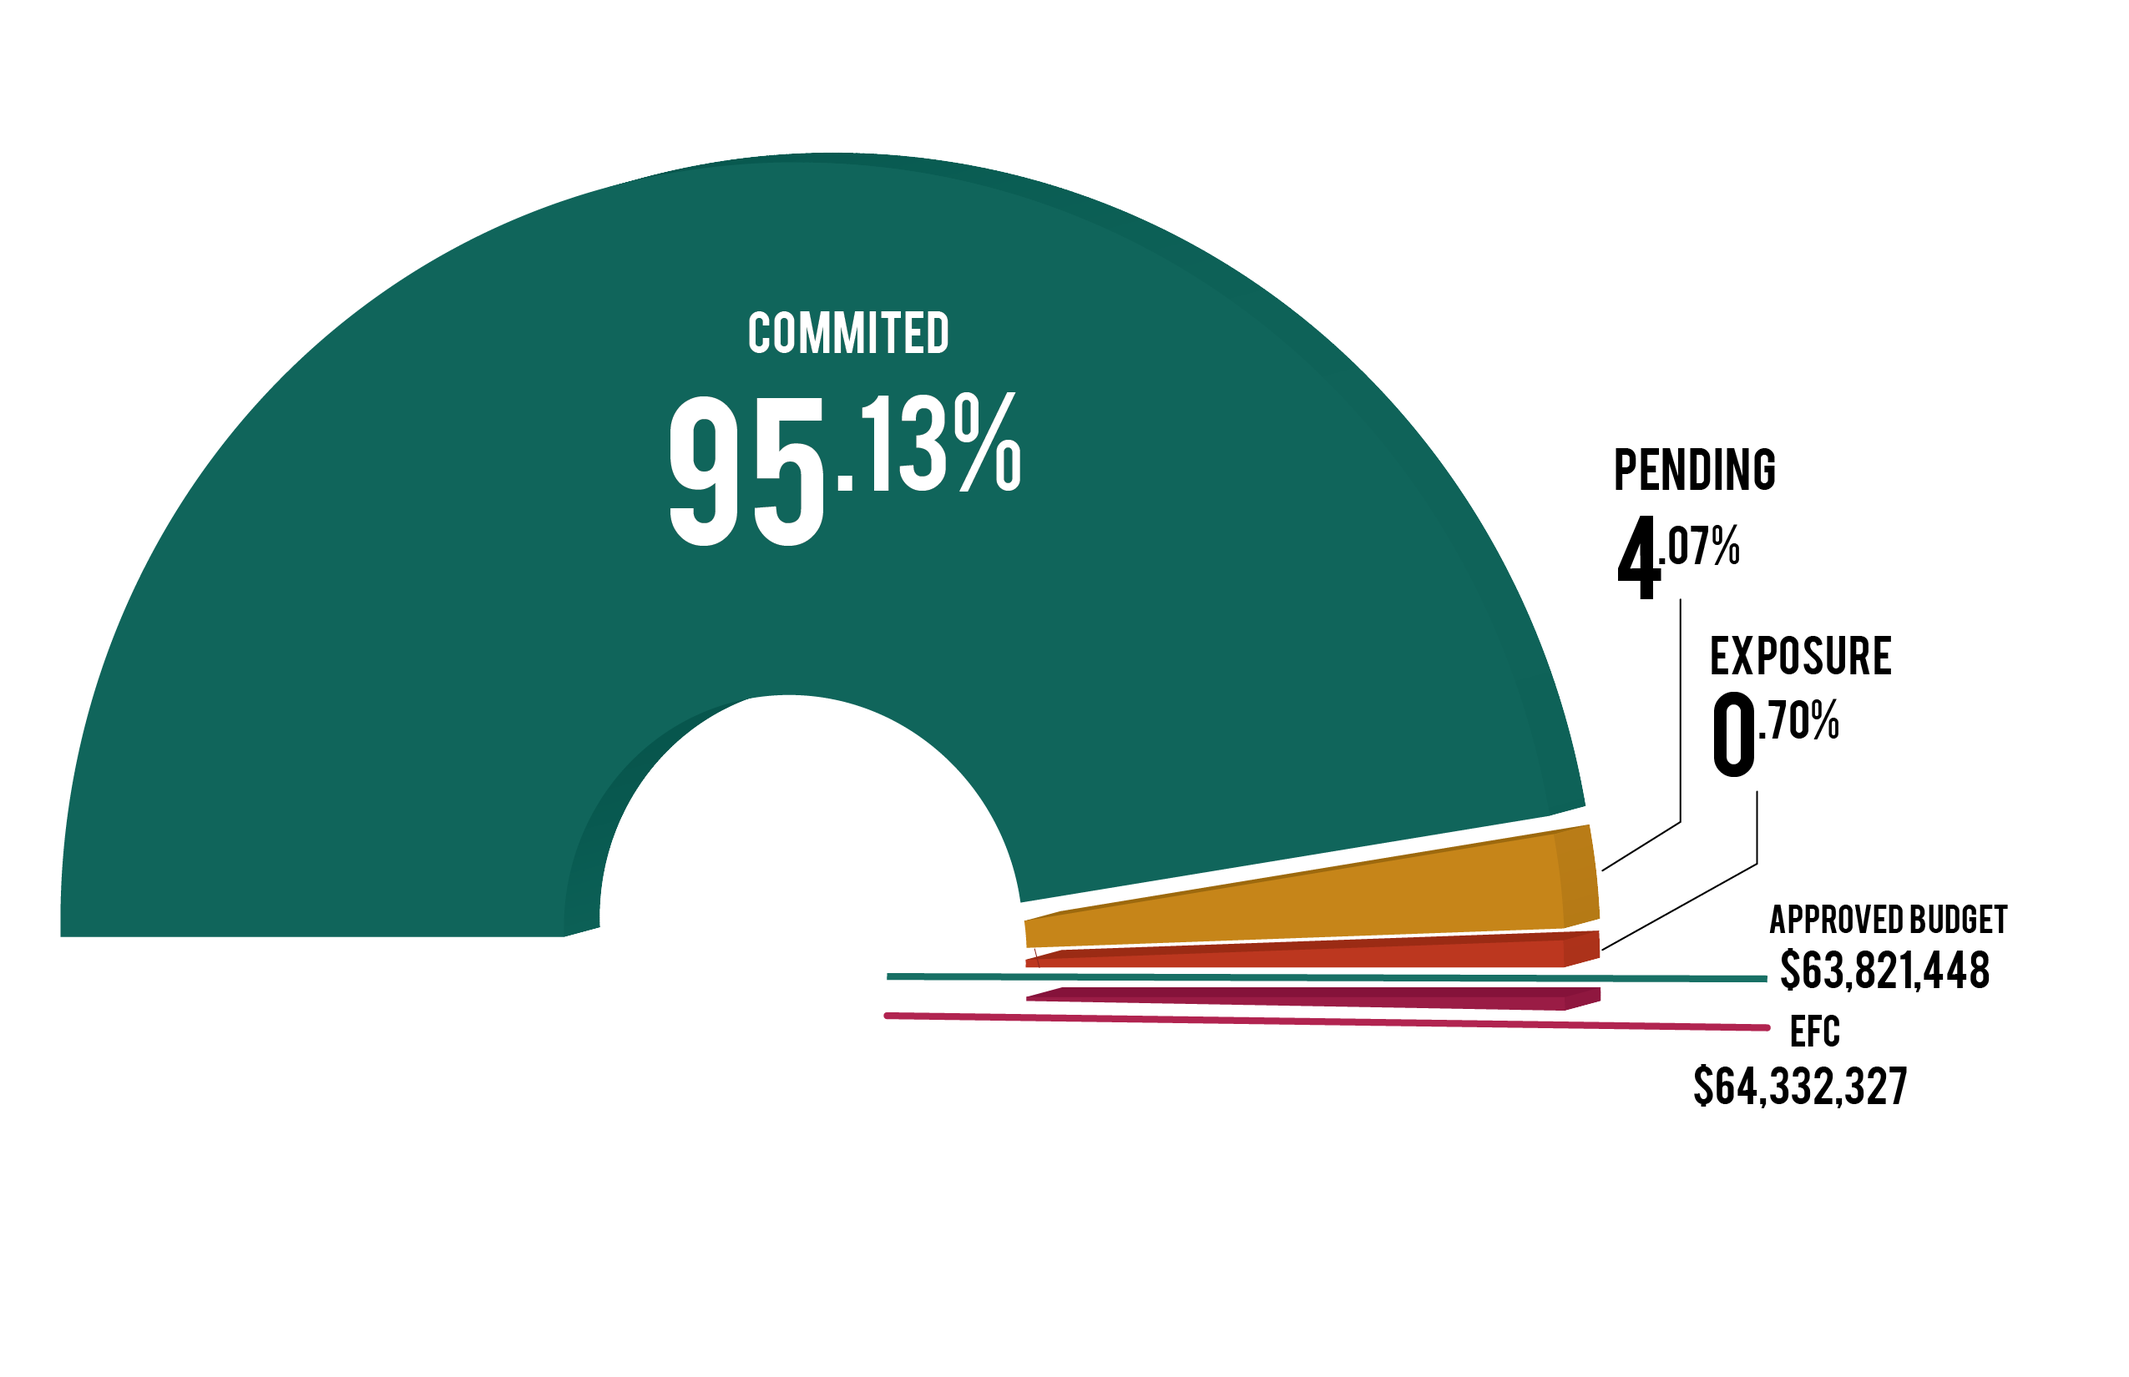
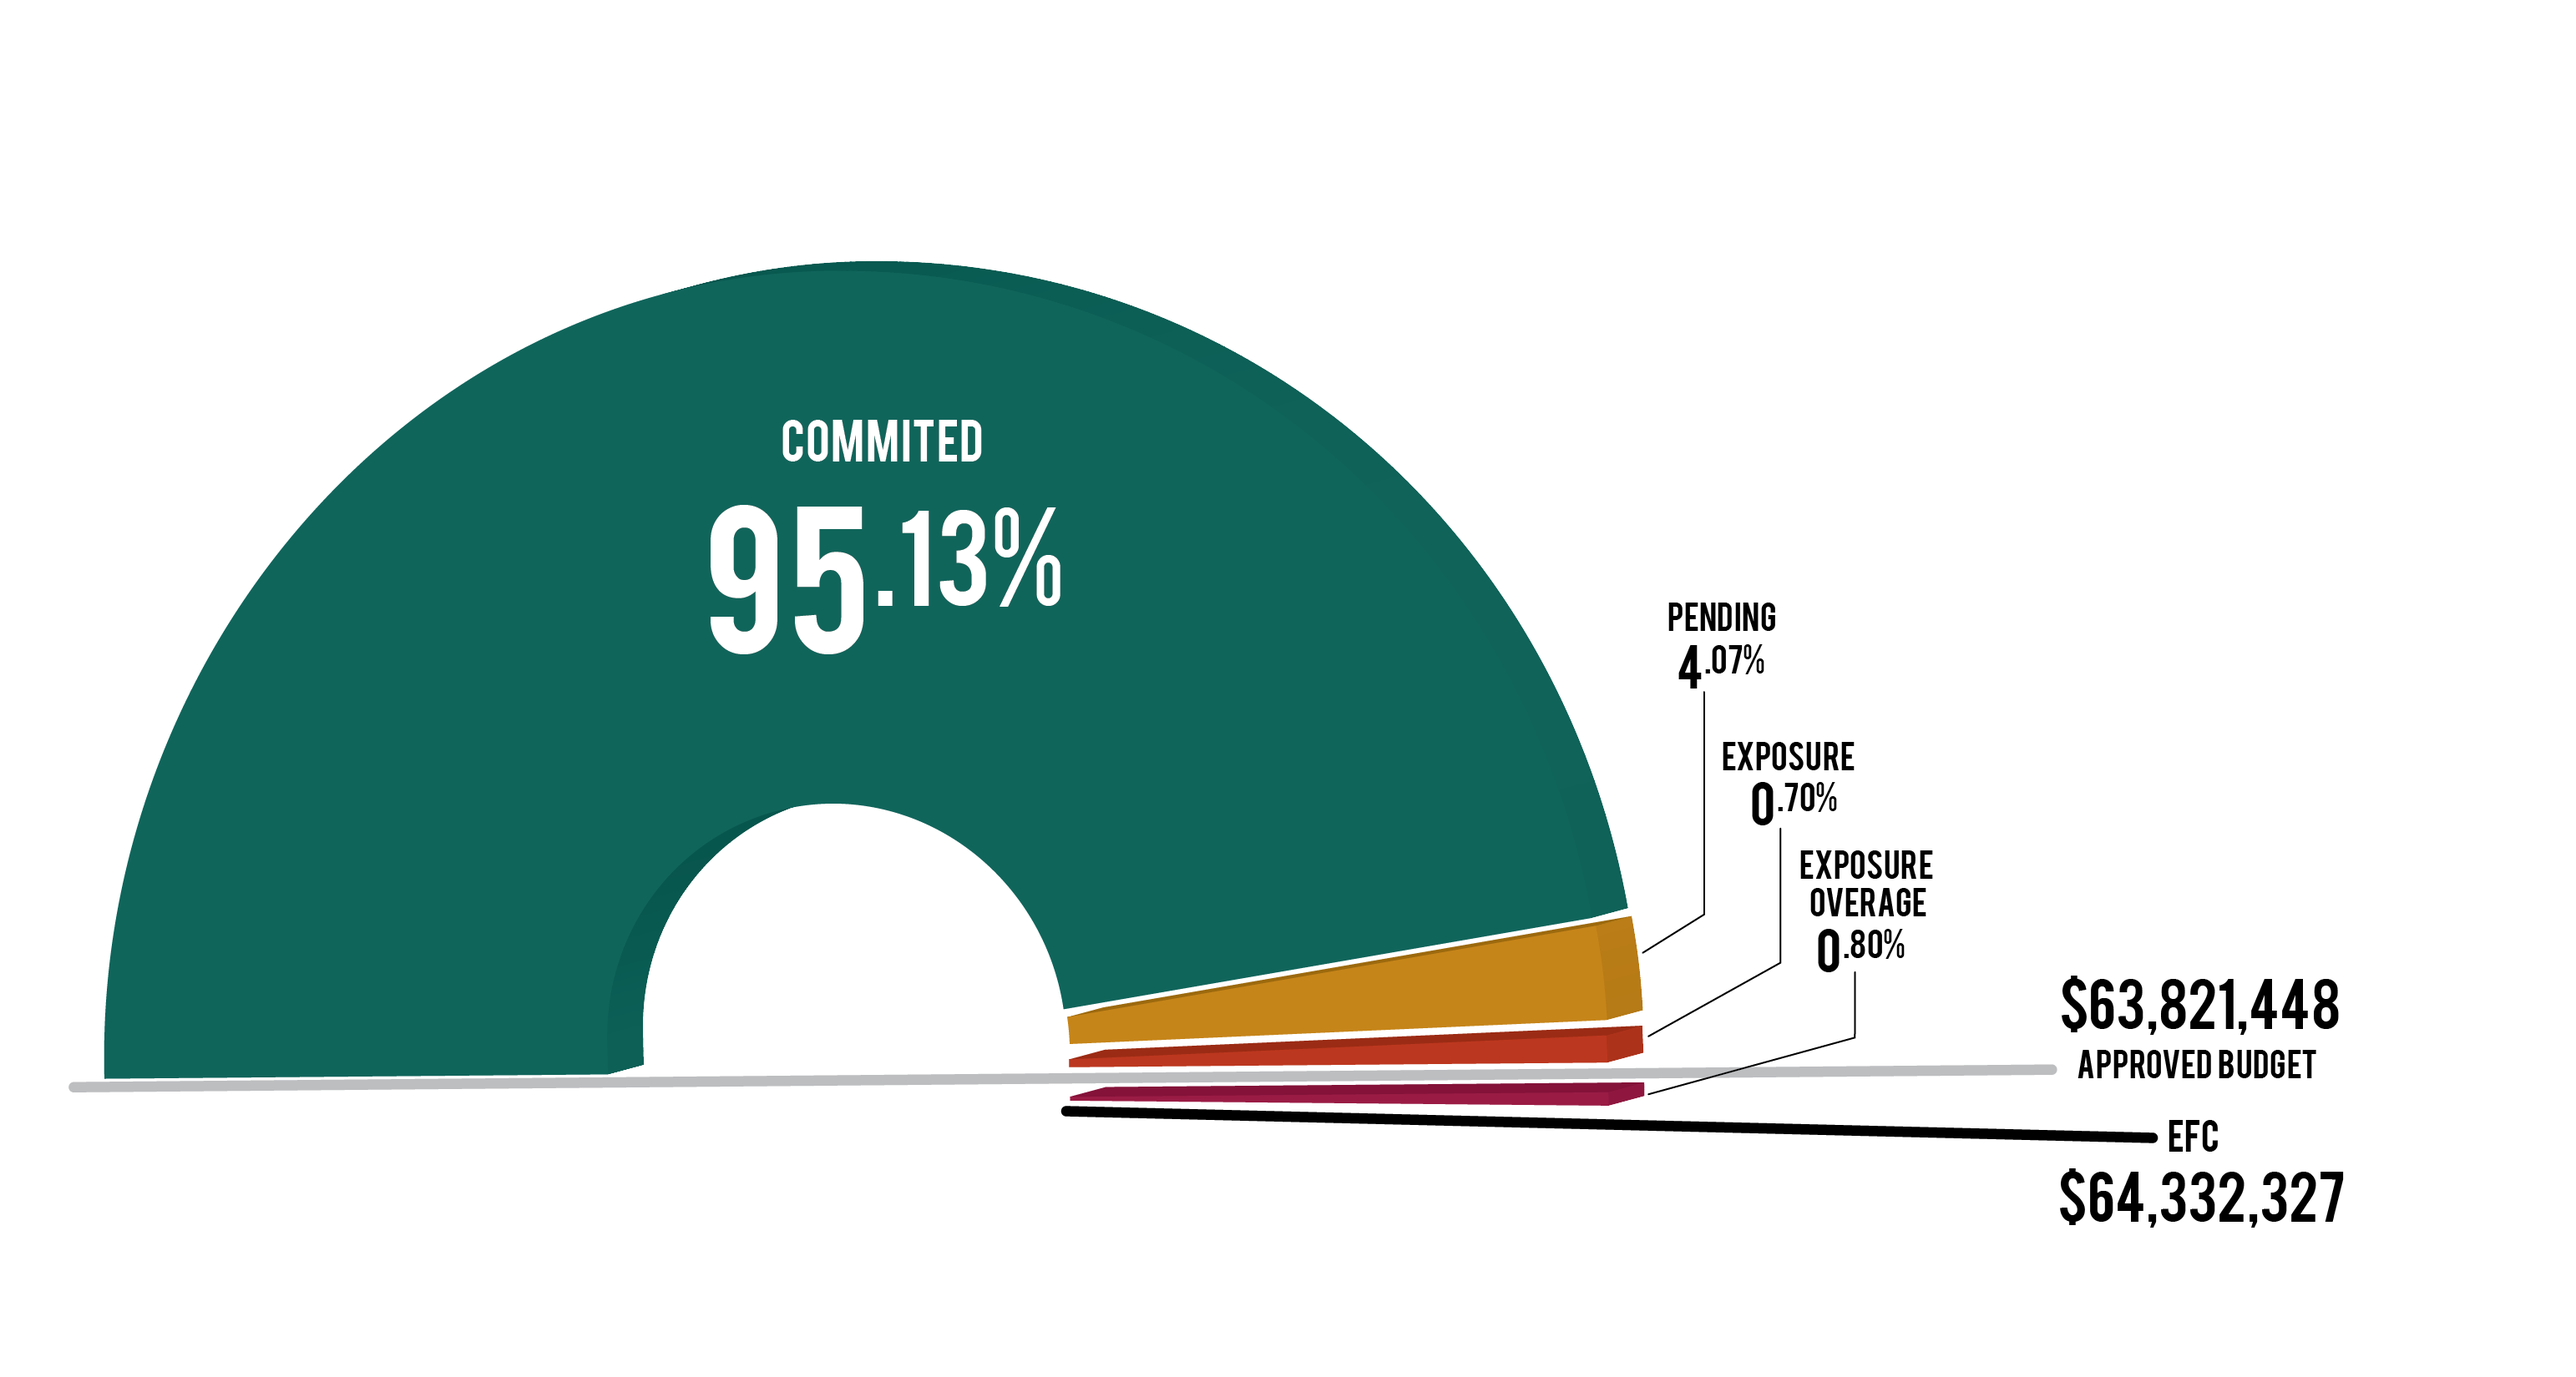
changed chart graphic and table

Changed region(s): [[0.031, 0.0927, 0.9604, 0.8964], [0.7435, 0.3091, 0.8365, 0.4327], [0.8055, 0.4636, 0.8984, 0.5873]]

diff --git a/index.html b/index.html
@@ -88,90 +88,74 @@
                   <tr>
                     <th scope="row">Fin., Legal, Dev</th>
                     <div class="center-info">
-                    <td>$3,044,878</td>
-                    <td>$2,822,095</td>
-                    <td>$222,783</td>
-                    <td>$135,000</td>
-                    <td>$3,179,878</td>
+                    <td><span>$</span>3,044,878</td>
+                    <td><span class="span-special">$</span>2,822,095</td>
+                    <td><span class="span-special">$</span>222,783</td>
+                    <td><span>$</span>135,000</td>
+                    <td><span class="span-special">$</span>3,179,878</td>
                 </div>
                   </tr>
                   <tr>
                     <th scope="row">Pro Fees</th>
-                    <td>$2,669,951</td>
-                    <td>$2,471,679</td>
-                    <td>$176,805</td>
-                    <td>$0</td>
-                    <td>$2,648,484</td>
+                    <td>2,669,951</td>
+                    <td>2,471,679</td>
+                    <td>176,805</td>
+                    <td>0</td>
+                    <td>2,648,484</td>
                   </tr>
                   <tr>
                     <th scope="row">FF&E</th>
-                    <td>$12,339,175</td>
-                    <td>$10,846,576</td>
-                    <td>$594,526</td>
-                    <td>$192,933</td>
-                    <td>$11,634,035</td>
+                    <td>12,339,175</td>
+                    <td>10,846,576</td>
+                    <td>594,526</td>
+                    <td>192,933</td>
+                    <td>11,634,035</td>
                   </tr>
                   <tr>
                     <th scope="row">Construction</th>
-                    <td>$38,196,929</td>
-                    <td>$37,177,628</td>
-                    <td>$1,517,755</td>
-                    <td>$630,015</td>
-                    <td>$39,325,398</td>
+                    <td>38,196,929</td>
+                    <td>37,177,628</td>
+                    <td>1,517,755</td>
+                    <td>630,015</td>
+                    <td>39,325,398</td>
                   </tr>
                   <tr>
                     <th scope="row">OS&E</th>
-                    <td>$145,764</td>
-                    <td>$144,475</td>
-                    <td>$0</td>
-                    <td>$0</td>
-                    <td>$144,476</td>
+                    <td>145,764</td>
+                    <td>144,475</td>
+                    <td>0</td>
+                    <td>0</td>
+                    <td>144,476</td>
                   </tr>
                   <tr>
                     <th scope="row">Operations</th>
-                    <td>$7,419,302</td>
-                    <td>$7,249,966</td>
-                    <td>$150,000</td>
-                    <td>$0</td>
-                    <td>$7,399,966</td>
+                    <td>7,419,302</td>
+                    <td>7,249,966</td>
+                    <td>150,000</td>
+                    <td>0</td>
+                    <td>7,399,966</td>
                   </tr>
                   <tr>
                     <th scope="row">Contingency</th>
-                    <td>$5,447</td>
-                    <td>$0</td>
-                    <td>$0</td>
-                    <td>$0</td>
-                    <td>$0</td>
+                    <td>5,447</td>
+                    <td>0</td>
+                    <td>0</td>
+                    <td>0</td>
+                    <td>0</td>
                   </tr>
 
                   <tr>
                     <th scope="col">Total</th>
-                    <th scope="col">$63,821,448 </th>
-                    <th scope="col">$60,712,420</th>
-                    <th scope="col">$2,661,869</th>
-                    <th scope="col">$957,948</th>
-                    <th scope="col">$64,332,237</th>
+                    <th scope="col"><span class="span-long">$</span>63,821,448 </th>
+                    <th scope="col"><span class="span-long">$</span>$60,712,420</th>
+                    <th scope="col"><span class="span-long">$</span>$2,661,869</th>
+                    <th scope="col"><span class="span-long">$</span>$957,948</th>
+                    <th scope="col"><span class="span-long">$</span>$64,332,237</th>
                   </tr>
 
                 </tbody>
               </table>
         </div>
-    </div>
-    <div class="container-fluid">
-    <div class="column-wrapper">
-
-        <div class="row">
-            <div class="col">
-              <div class="section-box">1 of 3</div>
-            </div>
-            <div class="col">
-                <div class="section-box"> 2 of 3</div>
-            </div>
-            <div class="col">
-              <div class="section-box">3 of 3</div>
-            </div>
-          </div>
-        </div>    
     </div>
 </body>
 <script src="https://www.amcharts.com/lib/4/core.js"></script>

diff --git a/styles.css b/styles.css
@@ -91,7 +91,7 @@ p {
 
 .container {
   width: 65vw;
-  height: 550px;
+  height: 600px;
   background-color: #fff;
   border-radius: 10px;
   display: flex;
@@ -146,10 +146,11 @@ p {
 
 .chartdiv {
   width: 100%;
-  height: 500px;
+  height: 550px;
   font-family: futura, serif;
   display: flex;
   justify-content: center;
+  margin-bottom: 30px;
 }
 
 .chartdiv img {
@@ -260,6 +261,18 @@ p {
   visibility: hidden;
 }
 
+span {
+  margin-right: 25px;
+  font-weight: 600;
+}
+
+.span-special {
+  margin-right: 35px;
+}
+
+.span-long {
+  margin-right: 10px;
+}
 
 .column-wrapper {
   width: 65vw;
